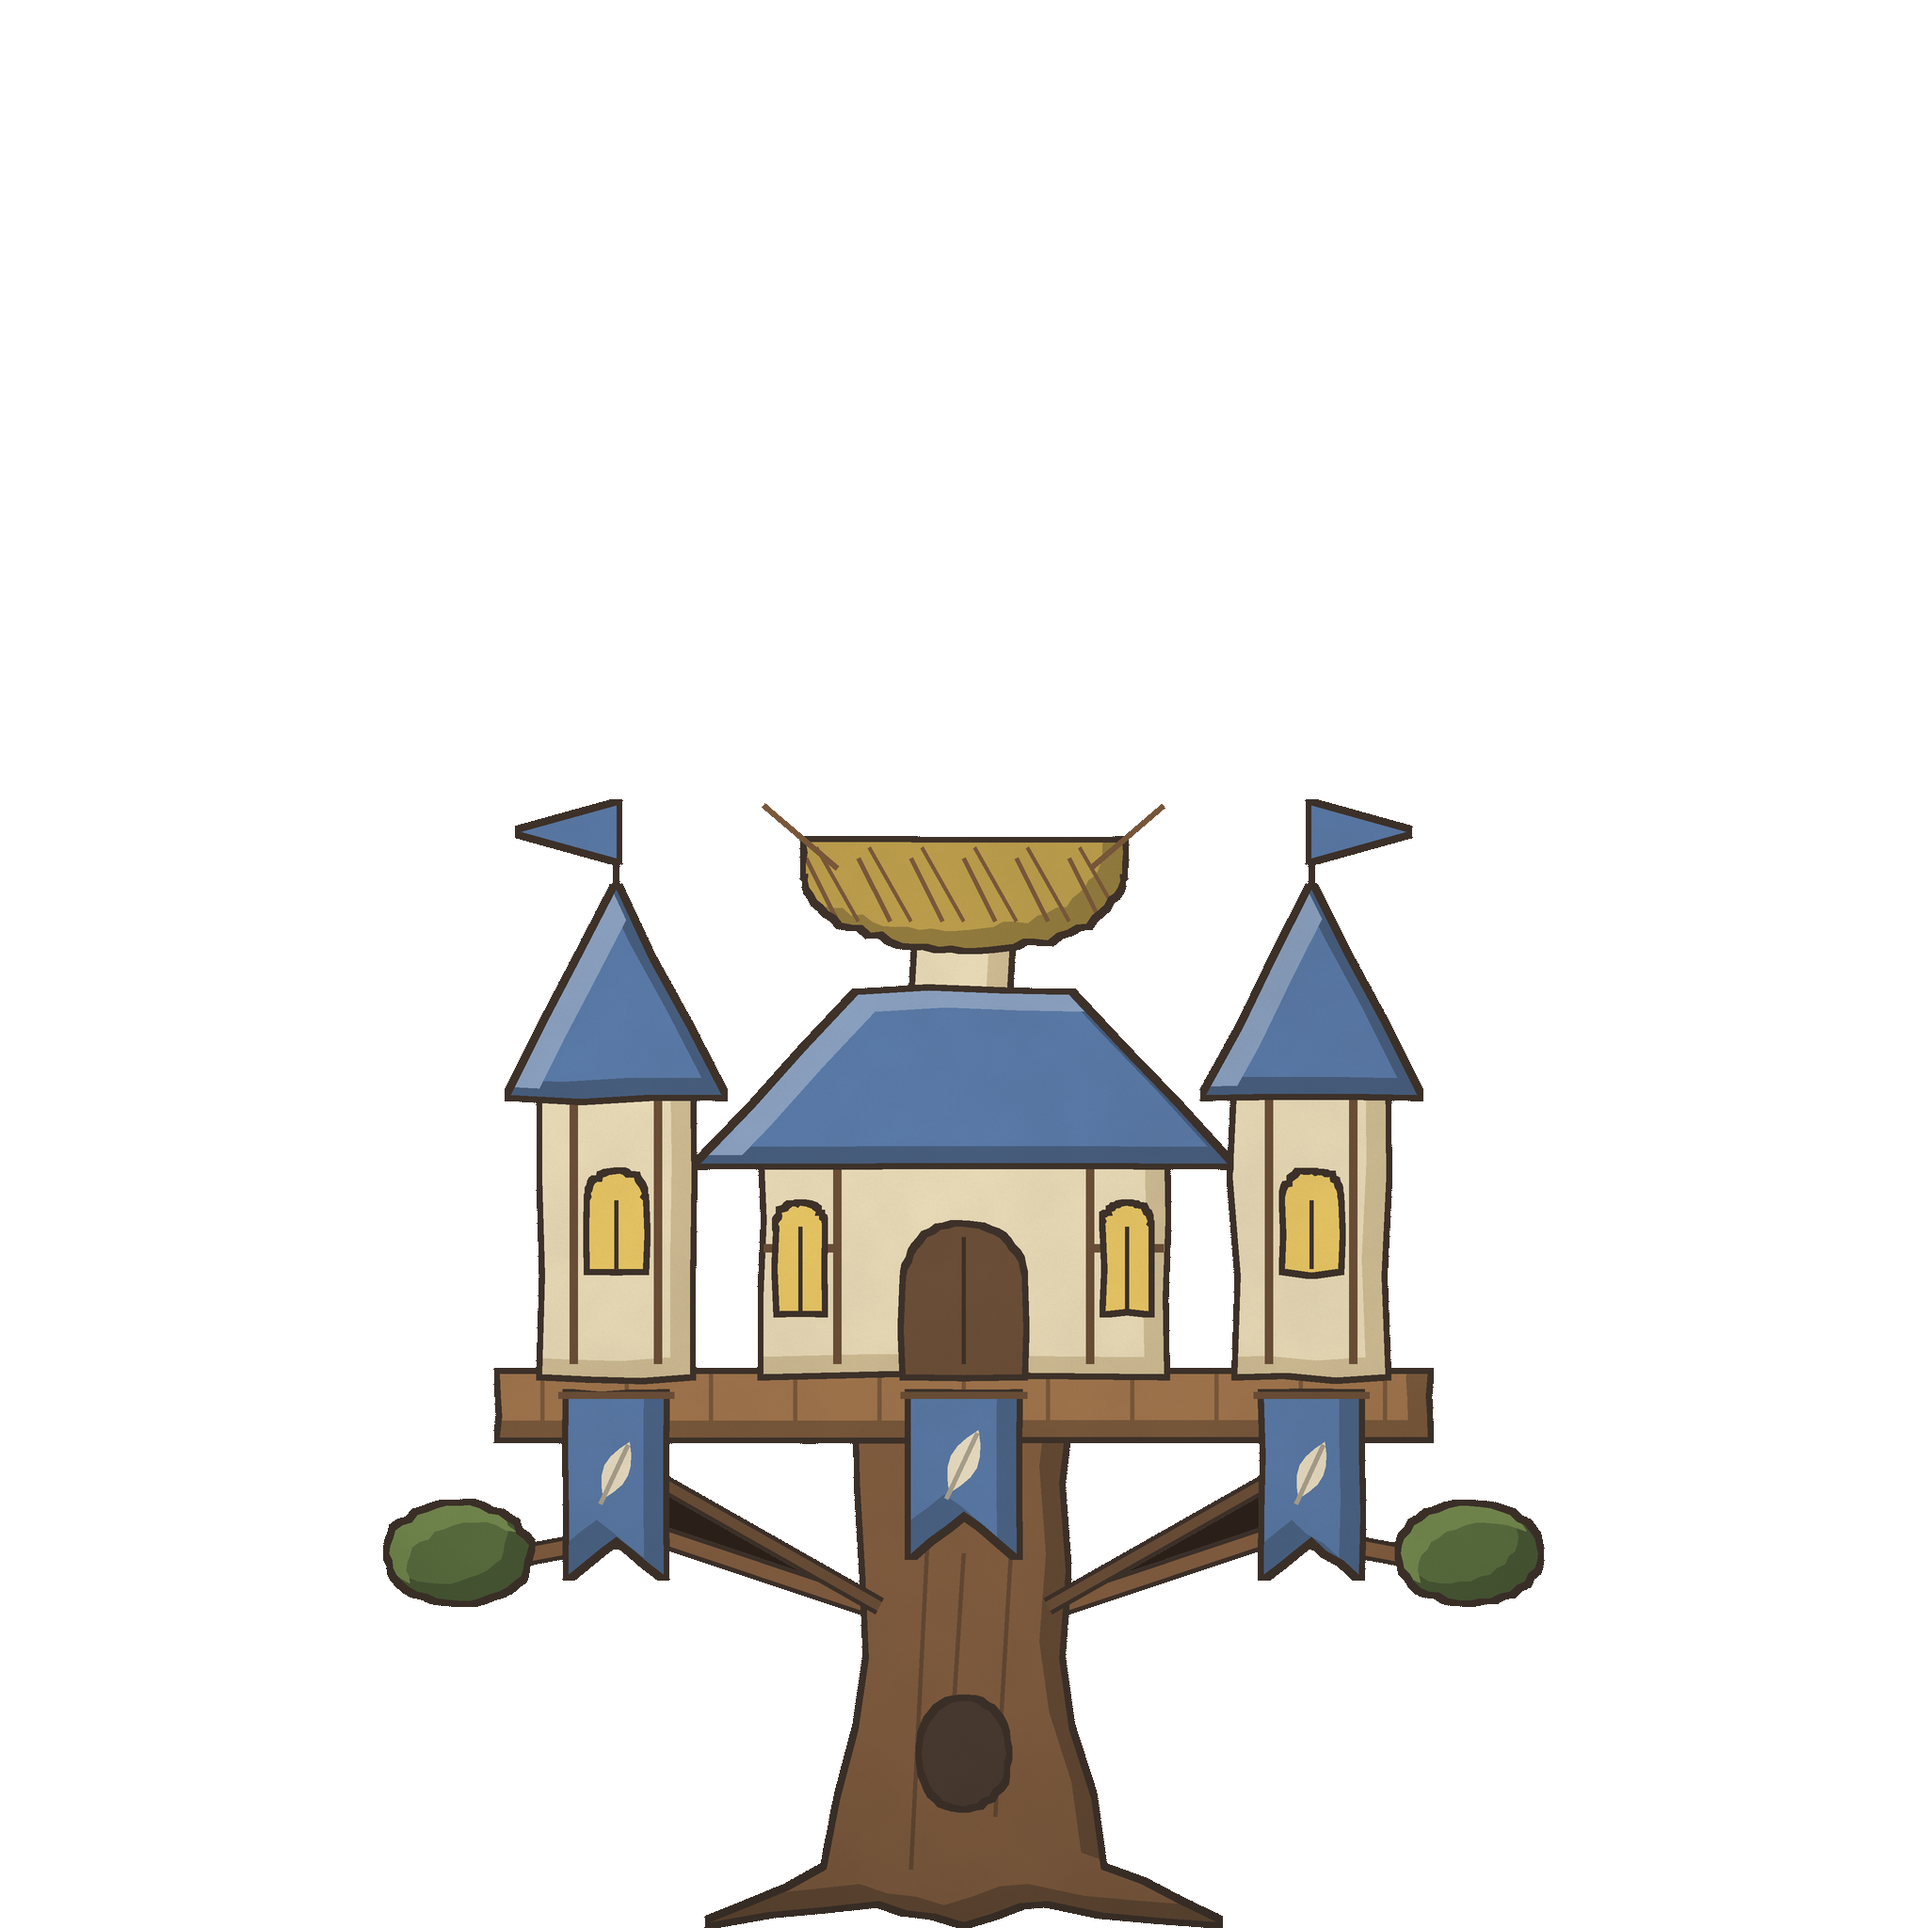
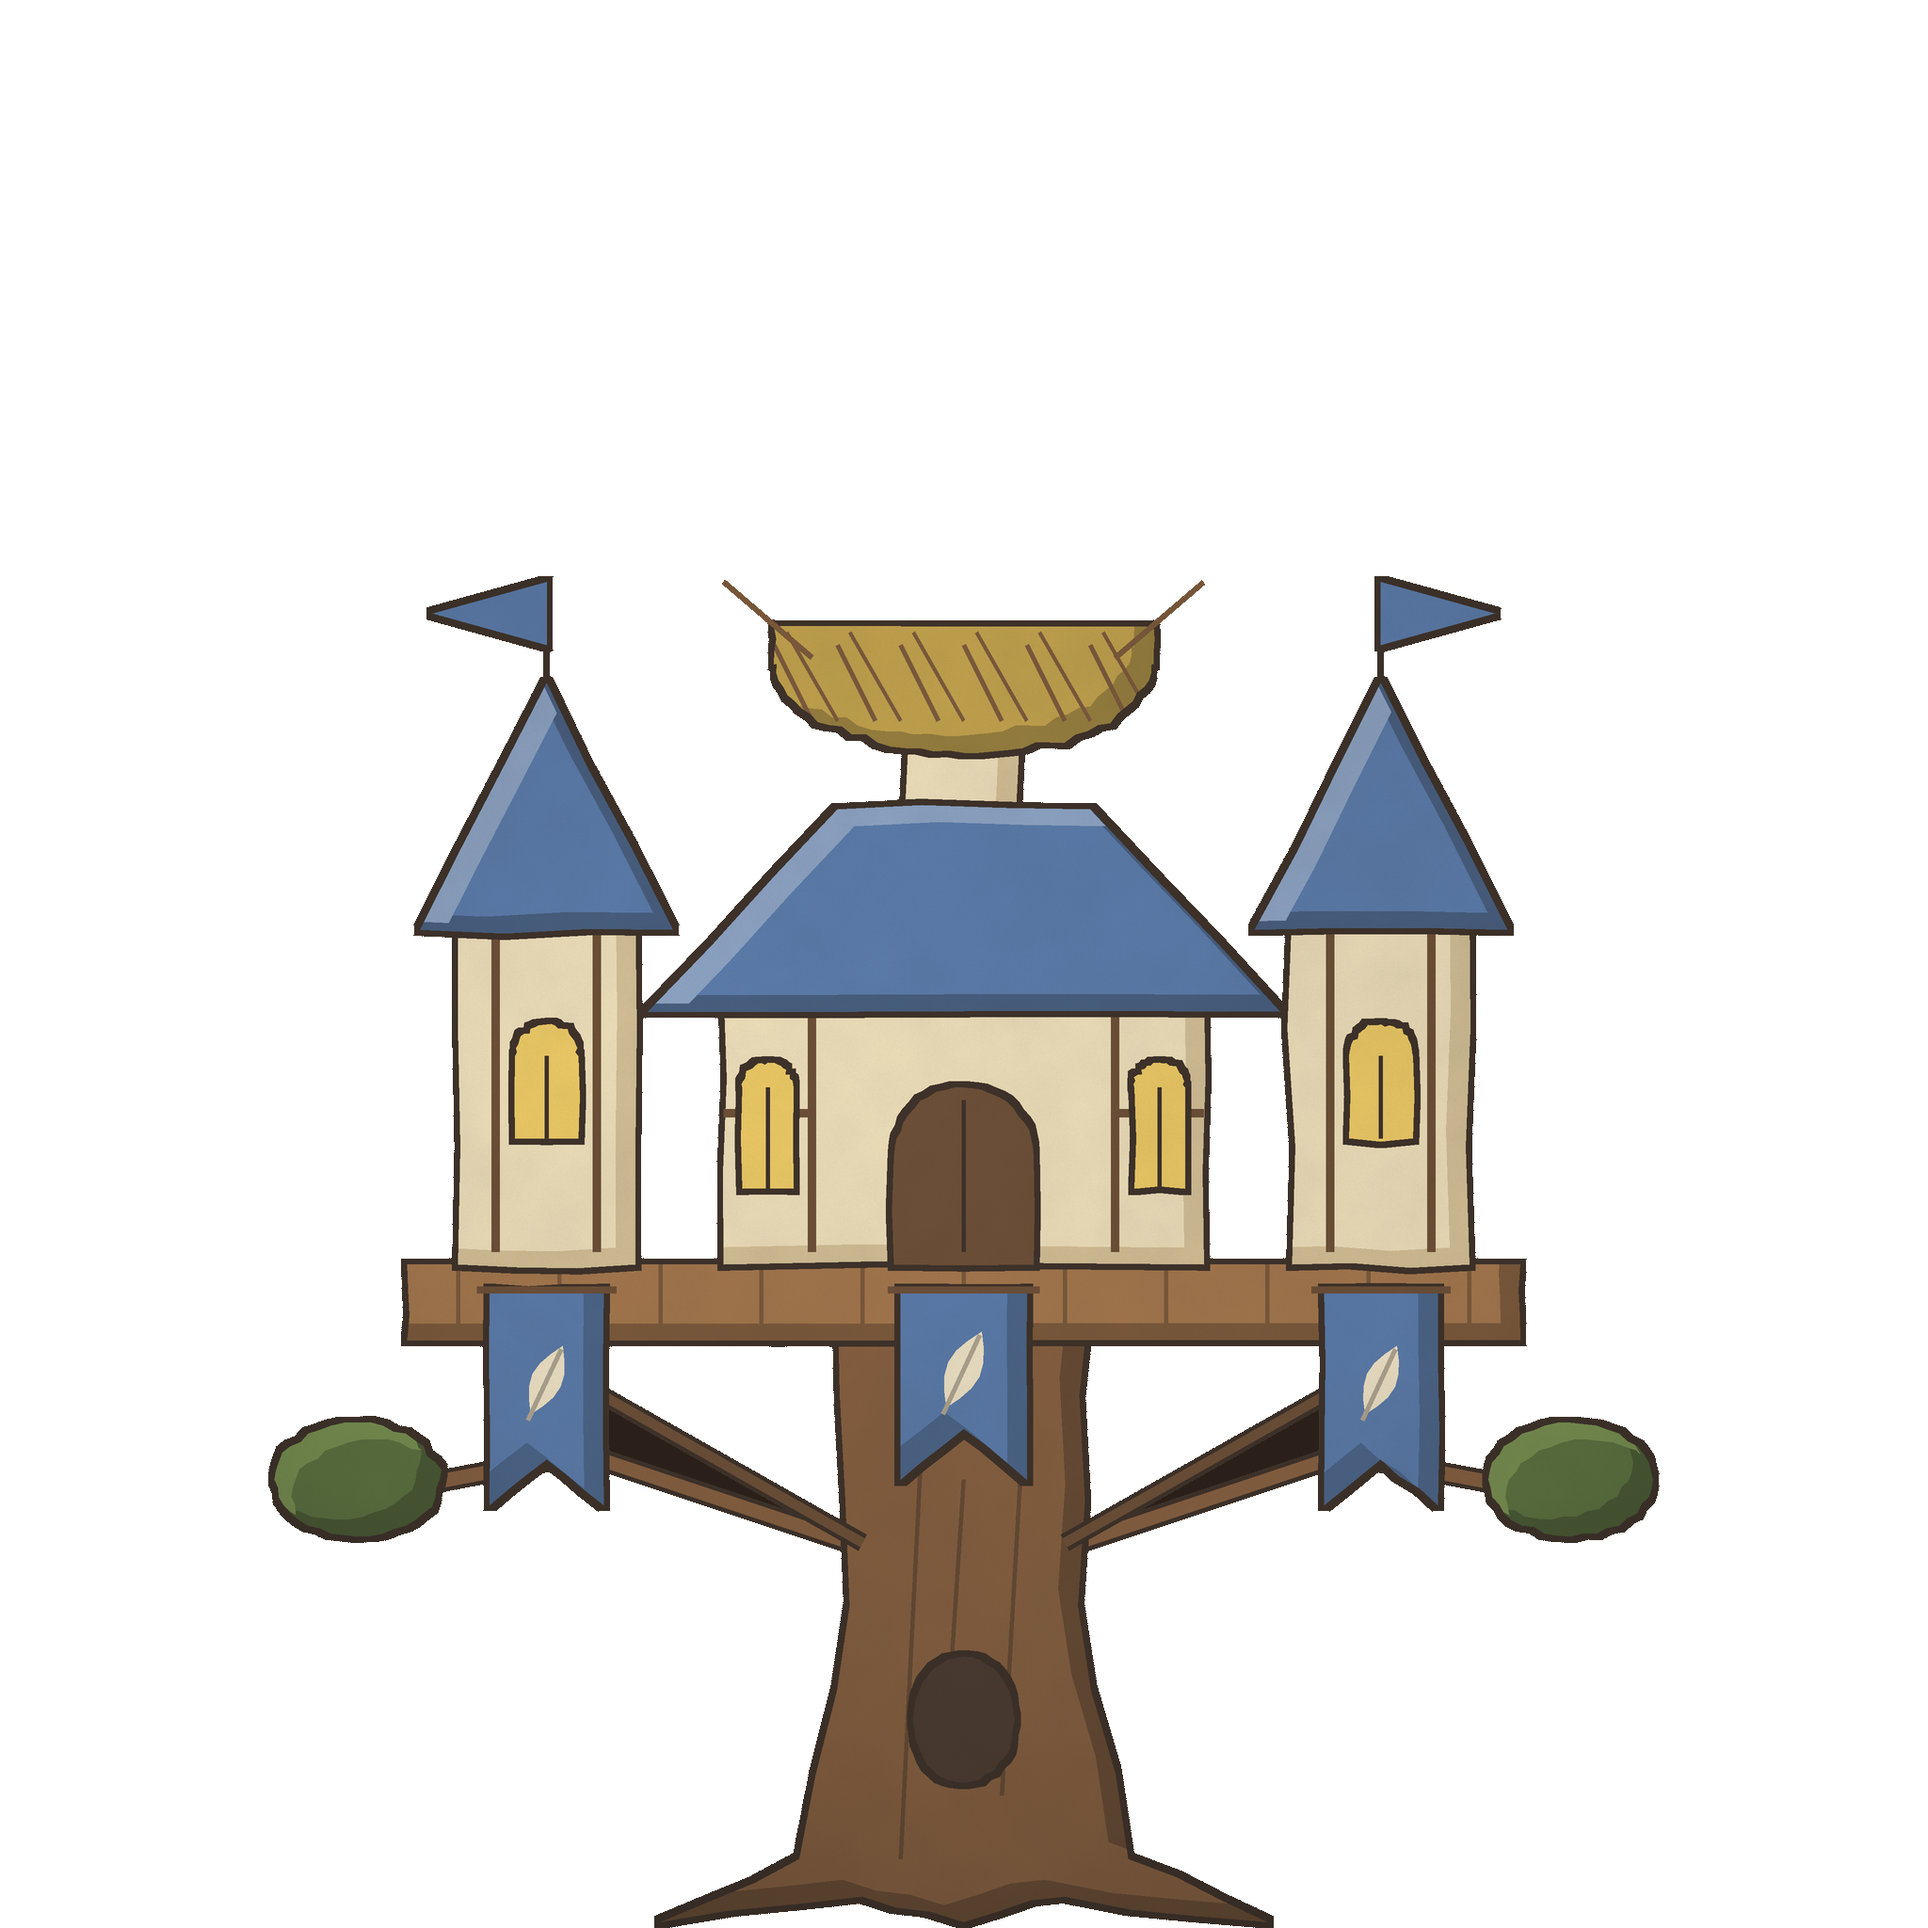
Update: faction capitol landmark resize

Changed region(s): [[0.125, 0.2812, 0.875, 1.0]]

diff --git a/tts_envs/tools/build/build_landmarks.py b/tts_envs/tools/build/build_landmarks.py
@@ -18,7 +18,7 @@ design unit, so the canvas size never changes how big a landmark is drawn.
 
 (`landmark_class` rows give the heights; `landmark_tier` rows say which class
 each landmark size is; an optional `landmark_scale` row multiplies one
-landmark's height, e.g. guild_tower x1.5.) The height is reached by RE-DRAWING at a fitted width,
+landmark's height, e.g. guild_tower x1.5, or per size: guildhall |||1.2.) The height is reached by RE-DRAWING at a fitted width,
 not by resizing the image, so the ink line is the same weight on every
 landmark. Something too wide to reach its height inside the canvas is drawn
 as tall as fits, and the build says so.
@@ -1854,15 +1854,19 @@ def parse_tiers(raw, widths, classes):
 
 
 def parse_scales(raw, widths):
-  """landmark_scale rows -> {landmark: height multiplier}; missing = 1."""
+  """landmark_scale rows -> {landmark: [height multiplier per size]}; missing = 1.
+  One value covers every size (`1.5`); per size like landmark_size (`|||1.2`, blank = 1)."""
   out = {}
   for name, value in raw.items():
     if name not in widths:
       die("landmark_scale.%s: no landmark_size row for it" % name)
     try:
-      out[name] = float(value)
+      parts = [float(v) if v.strip() else 1.0 for v in value.split("|")]
     except ValueError:
-      die("landmark_scale.%s: %r is not a number" % (name, value))
+      die("landmark_scale.%s: %r is not a number or x1|x2|x3|x4" % (name, value))
+    if len(parts) > SIZES:
+      die("landmark_scale.%s: at most %d slots" % (name, SIZES))
+    out[name] = parts * SIZES if len(parts) == 1 else parts + [1.0] * (SIZES - len(parts))
   return out
 
 
@@ -2015,7 +2019,7 @@ def main():
     for size in sizes:
       file = "%s_s%d.png" % (name, size)
       cls = tiers[name][size - 1]
-      width, capped = fit_width(lm, name, size, widths[name][size - 1], classes[cls] * scales.get(name, 1.0))
+      width, capped = fit_width(lm, name, size, widths[name][size - 1], classes[cls] * scales.get(name, [1.0] * SIZES)[size - 1])
       img = draw_landmark(lm, name, size, width).resize((lm["out_size"], lm["out_size"]), Image.LANCZOS)
       area = lm["unit_px"] ** 2  # MIN_PIECE / MAX_HOLE are in design units squared
       # place AFTER the clean-up, so a dropped mote cannot pull it off centre

diff --git a/tts_envs/tools/sync/sync_maptile_manager.py b/tts_envs/tools/sync/sync_maptile_manager.py
@@ -14,6 +14,7 @@ Sheets read (tools/build/scaffold_maptile_xlsx.py creates and tops them up):
                        landmarks ("a|b|b"), gmnotes + memo (stamped on the spawned landmark; "{biome}" =
                        the tile's biome), flavor ("line|line": one is announced)
   exploration          biome + one weight column per resource / poi outcome  (blank / 0 = never)
+  explore_special      biome, label, tooltip, flavor: that biome's fifth Explore choice (guildhall: Eat)
   density              density, explorations
   weights              param, pool        ("a|b|b": b is twice as likely)
   tiers                biome, tier, gmnotes, tileset
@@ -303,6 +304,16 @@ def main():
         rows.setdefault(o["category"], []).append((col, weight))
     if rows:
       exploration[r["biome"]] = rows
+  # explore_special: a biome's own fifth Explore choice
+  special = {}
+  for r in read_rows(MAPTILES, "explore_special", "biome", wb):
+    if r["biome"] not in biomes:
+      sys.exit("%s: biome %r is not on biome_descriptions" % (r["_where"], r["biome"]))
+    if not r.get("label"):
+      sys.exit("%s: needs a label (the button text)" % r["_where"])
+    special[r["biome"]] = {"label": r["label"], "tooltip": r.get("tooltip", ""),
+                           "flavor": [v.strip() for v in r.get("flavor", "").split("|") if v.strip()]}
+
   unexplorable = sorted(set(biomes) - set(exploration))
   if unexplorable:
     warn("%d biomes have no exploration weights (Explore finds nothing): %s"
@@ -349,6 +360,11 @@ def main():
   for b, rows in exploration.items():
     L.append("    [%s] = {%s}," % (lua_str(b), ", ".join(
       "%s = {%s}" % (cat, ", ".join("{%s, %d}" % (lua_str(o), w) for o, w in row)) for cat, row in rows.items())))
+  L.append("  },")
+  L.append("  special = {")
+  for b, v in special.items():
+    L.append("    [%s] = {label = %s, tooltip = %s, flavor = %s}," % (
+      lua_str(b), lua_str(v["label"]), lua_str(v["tooltip"]), lua_list(v["flavor"])))
   L.append("  },")
   L.append("  images = {")
   for key, url in images.items():

diff --git a/tts_envs/tools/build/scaffold_maptile_xlsx.py b/tts_envs/tools/build/scaffold_maptile_xlsx.py
@@ -13,6 +13,7 @@ biomes, patterns or densities in asset_variables.csv just add rows.
   maptile_table         biome: what Render spawns         gmnotes
   explore_outcomes      Explore outcome: what it does     outcome (hand-filled)
   exploration           biome: weight per outcome         biome (resource + poi columns)
+  explore_special       biome: its fifth Explore choice   biome (hand-filled)
   density               density stage                     density -> explorations
   weights               draw roll                         param -> pool ("a|b|b" = b twice as likely)
   tiers                 tier of a tiered biome            biome + tier -> gmnotes, tileset (hand-filled)
@@ -58,6 +59,8 @@ SHEETS = {
   # one weight column per resource / poi row on explore_outcomes; add a column when an outcome is added
   "exploration": ["biome", "fishing", "mining", "forestry", "hunting", "herbalism", "resource_none",
                   "camp", "cave", "caravan", "beehive", "shrine", "warehouse", "bank", "poi_none", "notes"],
+  # a biome's fifth Explore choice (hand-filled; most biomes have none)
+  "explore_special": ["biome", "label", "tooltip", "flavor", "notes"],
   "density": ["density", "explorations", "notes"],
   "weights": ["param", "pool", "notes"],
   "tiers": ["biome", "tier", "gmnotes", "tileset", "notes"],
@@ -170,6 +173,7 @@ def main():
   report.append(("maptile_table", sheet(wb, "maptile_table", SHEETS["maptile_table"]), "gmnotes",
                  [{"gmnotes": r["name"]} for r in biomes]))
   sheet(wb, "explore_outcomes", SHEETS["explore_outcomes"])
+  sheet(wb, "explore_special", SHEETS["explore_special"])
   sheet(wb, "landmark_table", SHEETS["landmark_table"])
   report.append(("exploration", sheet(wb, "exploration", SHEETS["exploration"]), "biome",
                  [{"biome": r["name"]} for r in biomes]))

diff --git a/README.md b/README.md
@@ -66,6 +66,7 @@ ROAM/
     │   ├── test_*.lua        # offline harness, stubs TTS API
     │   └── bin/lua54.exe     # harness interpreter (5.4; TTS is 5.2)
     ├── master_sync.cmd       # rebuild everything + run tests
+    ├── ship.sh               # Git Bash: git add . + commit + push (`./tts_envs/ship.sh "msg"`)
     ├── master_reload.lua     # generated; Execute Code -> live-apply Global
     └── debug.lua             # generated; Execute Code -> dump what Global sees
 ```
@@ -472,17 +473,18 @@ A drawn tile is a copy of the bag's template (Custom Tile, GMNotes
 Buttons on the tile (owned by the manager; re-rendered on load from GMNotes + memo):
 - `Explore: N` -- N from the `density` sheet. Click = swap it for four choices (spends nothing); picking one
   spends 1 and brings `Explore: N-1` back (gone at 0). Each choice announces itself with a flavor line:
-  - `Resources` / `Points of interest` -- roll the biome's `exploration` weights for that category; a `landmark`
+  - `Resources` / `Landmarks` -- roll the biome's `exploration` weights for that category; a `landmark`
     outcome clones one from its pool out of bag `6a6425` onto the tile's centre, memo stamped from
     `explore_outcomes` (GMNotes left as the landmark's own kind)
   - `Experiences` -- takes the top card of the tile's region bag (`EVENT_BAGS` in `src/maptile_manager.lua`:
     woodland `570544`, waterside `524231`, opencountry `3546e2`, settlement `8bce91`, scarred `f608d7`) face up
     onto the tile. Bags hold single cards, never decks; never shuffled by script; a drawn card leaves its bag
   - `Wander` -- one of the other three at random
+  - a fifth choice on biomes listed on `explore_special` (guildhall: `Eat`) -- spends an explore and announces its flavor; Wander never picks it
   - untouched for 5 s (`EXPLORE.CHOICE_TIMEOUT`), the choices close and `Explore: N` returns. Not saved: a reload shows `Explore: N` again
 - `?` -- toggles the tile's hover tooltip (name + description). Tiles spawn with it off; grey text =
   off, black = on. State is the object's own `tooltip`, saved by TTS, not the memo
-- `Render` -- once (memo `rendered=1` removes the button); spawns the biome's `maptile_table` row onto the tile's centre, each slot's copy stamped from its `_gmnotes` / `_memo` columns, through Global
+- `Render` -- "Lock-in this maptile as the explored part of the world." Once (memo `rendered=1` removes the button); locks the tile (`setLock(true)`, saved with it); takes the region's top event card (as Experiences) and spawns the biome's `maptile_table` row onto the tile's centre, each slot's copy stamped from its `_gmnotes` / `_memo` columns, through Global
   (`Global.call("spawnFromFor", {guid, spawn})` -> `spawnFrom`, same bags as every other spawn)
 
 ### `data/maptile.xlsx`
@@ -495,6 +497,7 @@ Buttons on the tile (owned by the manager; re-rendered on load from GMNotes + me
 | `maptile_table` | biome (GMNotes) | `gmnotes` + spawn cells (`spawnN`, `spawnmeepleN`, `spawnlandmark1..3`, `spawngold`); names checked against tiles/tokens. Landmarks go in `spawnlandmarkN` (bag `6a6425`), not `spawnmeepleN` -- the sync fails on a landmark in a meeple cell | `<spawncol>_gmnotes` / `<spawncol>_memo` (e.g. `spawnlandmark1_memo`) stamp that slot's copy; blank = keep its own, `{biome}` = the row's biome. A stamp on an empty spawn column fails the sync |
 | `explore_outcomes` | Explore outcome | `outcome` `category` (`resource` / `poi` / `event`) `kind` (`landmark` / `nothing`) `name` `landmarks` (pool, `a\|b\|b`; checked against tokens.xlsx `landmarks`) `gmnotes` `memo` (stamped on the spawned landmark, blank = leave; `{biome}` = the tile's biome) `flavor` (`line\|line`, one is announced). The `event` row = Experiences' flavor |
 | `exploration` | biome | `biome` + one weight column per resource / poi outcome (`fishing` ... `resource_none`, `camp` ... `poi_none`); relative odds within each category, blank/0 = never. A new outcome = a new row there + a new column here; weight on a landmark outcome with no landmarks fails the sync |
+| `explore_special` | biome with a fifth Explore choice | `biome` `label` (button text) `tooltip` `flavor` (`line\|line`) -- hand-filled; most biomes have no row |
 | `landmark_table` | landmark kind (GMNotes) | `gmnotes` (lowercase snake_case) `actions` (`inspect\|enter`: keys of `LANDMARK_ACTIONS` in `src/global.lua`, which hold each action's label + click function) `notes`. `sync_landmark_data.py` -> `LANDMARK_DATA` in Global; warns on a kind no landmark carries, or one carried with no row. New kind = a row; new action = code |
 | `tiers` | biome + tier | `biome` `tier` `gmnotes` `tileset` -- gmnotes = the biome the tile becomes (needs its own `biome_descriptions` row, kept out of the pools); tileset = whose images it uses; a tileset that is not a biome has image rows only |
 | `density` | density stage | `density` `explorations` |
@@ -701,6 +704,7 @@ How to run: see [Offline Generation](#offline-generation).
   - `landmark` rows: `out_size`, `seed_offset`, `margin` (gap under the base)
   - `landmark_size` rows: key = landmark, value = width per size `w1|w2|w3|w4`
     (design units of the 1024 canvas). Blank slot = size not drawn: `|||760` = size 4 only
+  - `landmark_scale` rows: height multiplier on top of the size class; one value (`1.5`) or per size (`|||1.2`, blank = 1)
   - `landmark_colour` rows: colours only landmarks use (brick, marble, ore, fey, ...);
     also uses `global` palette (`stone`, `timber`, `cat_banner`, `bird_banner`, `glow`, ...)
 - landmarks (no people or creatures drawn; they are places):
